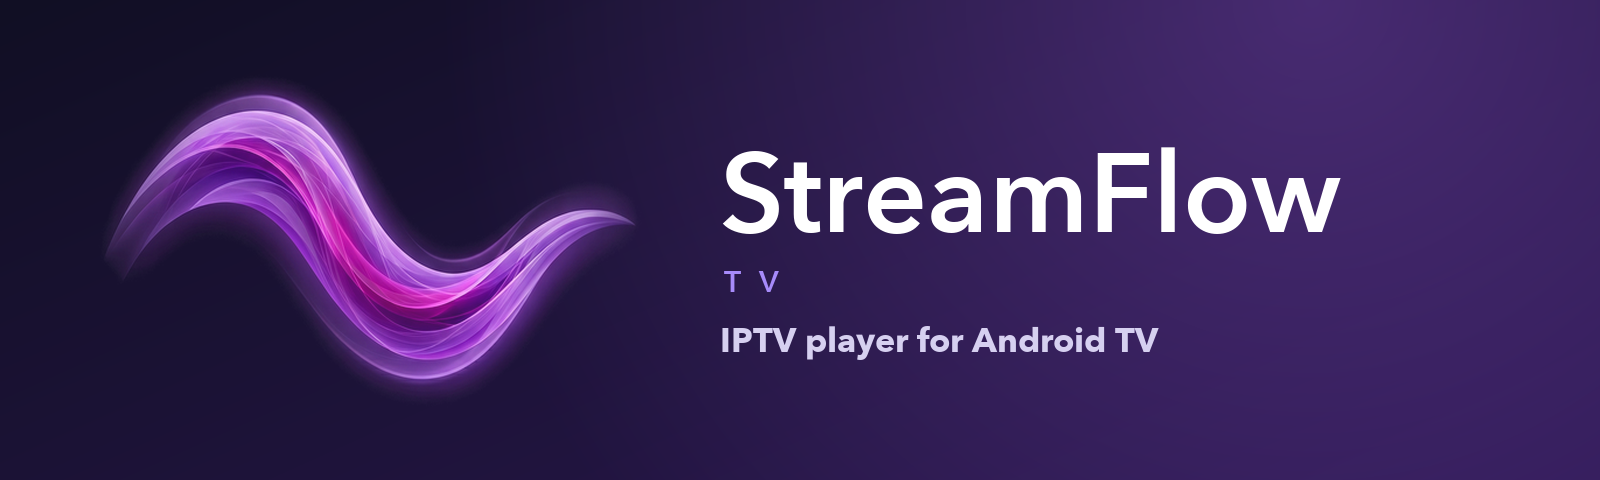
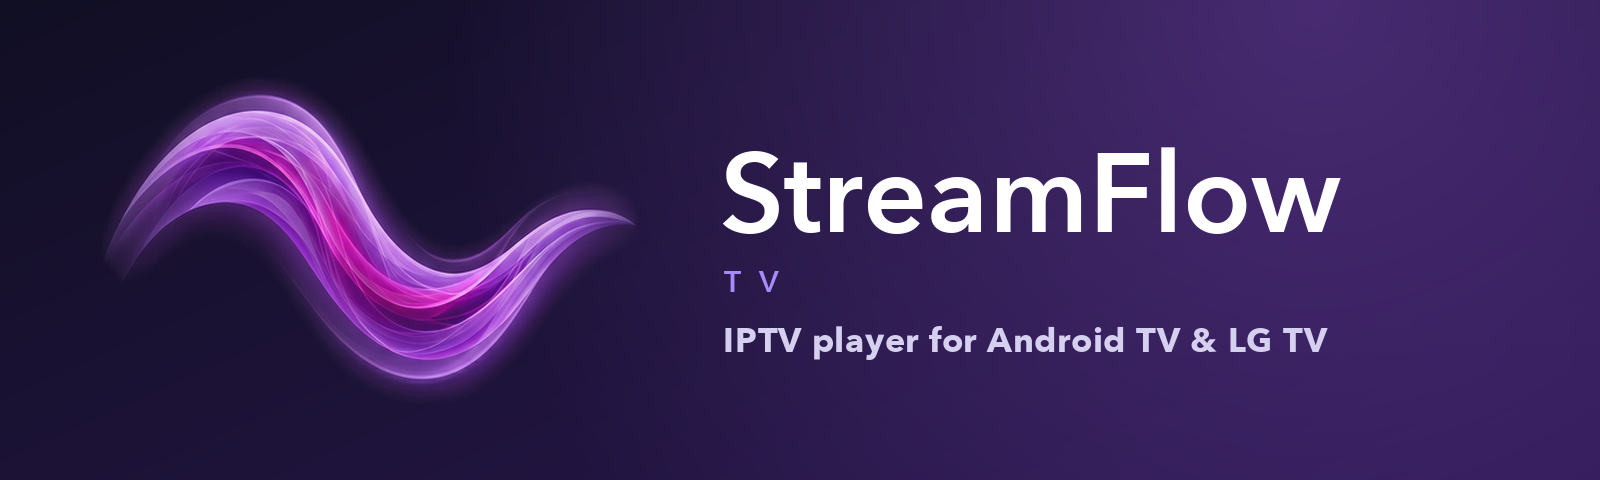
StreamFlow TV for LG TV: install guide and screenshots
- The LG TV (webOS) version: StreamFlow-LG.ipk on the release, beside the
  APK, and install steps through LG's Developer Mode.
- The header now reads "IPTV player for Android TV & LG TV", with a
  download badge for each.
- LG screenshots (the desktop build with a test playlist): setup, home,
  the player, Live Sports and a goal alert, which only the LG version has
  so far.
- Questions for LG: Developer Mode expiring, typing links with LG ThinQ.

Changed region(s): [[0.4375, 0.6875, 0.8438, 0.75]]

diff --git a/README.md b/README.md
@@ -1,20 +1,27 @@
 <p align="center">
-  <img src="images/header.png" alt="StreamFlow TV — IPTV player for Android TV" width="100%">
+  <img src="images/header.png" alt="StreamFlow TV — IPTV player for Android TV and LG TV" width="100%">
 </p>
 
 <p align="center">
-  <b>An IPTV player for Android TV, made for the remote.</b><br>
+  <b>An IPTV player for Android TV and LG TV, made for the remote.</b><br>
   Bring your own M3U playlist and XMLTV guide; StreamFlow does the rest.
 </p>
 
 <p align="center">
-  <a href="https://github.com/Getmygity/StreamFlow-TV/releases/latest/download/StreamFlow-TV.apk"><img alt="Download the APK" src="https://img.shields.io/badge/Download-StreamFlow--TV.apk-A78BFA?style=for-the-badge&logo=android&logoColor=white"></a>
+  <a href="https://github.com/Getmygity/StreamFlow-TV/releases/latest/download/StreamFlow-TV.apk"><img alt="Download the APK for Android TV" src="https://img.shields.io/badge/Android%20TV-StreamFlow--TV.apk-A78BFA?style=for-the-badge&logo=android&logoColor=white"></a>
+  <a href="https://github.com/Getmygity/StreamFlow-TV/releases/latest/download/StreamFlow-LG.ipk"><img alt="Download the IPK for LG TV" src="https://img.shields.io/badge/LG%20TV-StreamFlow--LG.ipk-A78BFA?style=for-the-badge&logo=lg&logoColor=white"></a>
+</p>
+
+<p align="center">
   <img alt="Android TV 5.0+" src="https://img.shields.io/badge/Android%20TV-5.0%2B-2B1850?style=for-the-badge&logo=android&logoColor=white">
+  <img alt="LG webOS 22+" src="https://img.shields.io/badge/LG%20webOS-22%2B-2B1850?style=for-the-badge&logo=lg&logoColor=white">
 </p>
 
 <p align="center">
   <img src="images/focused-card.jpg" alt="StreamFlow home screen" width="90%">
 </p>
+
+**Which one do I need?** An Android TV, Google TV or Android box takes **`StreamFlow-TV.apk`** ([install steps](#%EF%B8%8F-install-on-your-android-tv)). An LG smart TV from 2022 or later takes **`StreamFlow-LG.ipk`** ([install steps](#%EF%B8%8F-install-on-your-lg-tv)).
 
 ---
 
@@ -46,10 +53,47 @@ Choose **Install** when it finishes. If Play Protect warns about an unknown app,
 
 ---
 
+## ⬇ Install on your LG TV
+
+For LG smart TVs with **webOS 22 or newer** (2022 models and later). StreamFlow isn't in the LG Content Store, so it goes on through LG's free **Developer Mode**, from a computer on the same network. It takes about fifteen minutes the first time.
+
+**1. Make an LG developer account** at [webostv.developer.lge.com](https://webostv.developer.lge.com). It's free.
+
+**2. Turn on Developer Mode on the TV.** Install the **Developer Mode** app from the LG Content Store and sign in with that account. Turn on **Dev Mode Status**; the TV restarts. Open the app again and turn on **Key Server**. Keep it open: it shows the TV's **IP address** and a **passphrase**.
+
+**3. Connect your computer to the TV.** Install [Node.js](https://nodejs.org), then LG's tools, and pair with the TV:
+
+```bash
+npm install -g @webos-tools/cli
+ares-setup-device -a mytv -i "host=<tv-ip>" -i "port=9922" -i "username=prisoner"
+ares-novacom -d mytv --getkey
+ares-setup-device -m mytv -i "privatekey=mytv_webos" -i "passphrase=<passphrase>"
+```
+
+`--getkey` asks for the passphrase shown on the TV.
+
+**4. Install StreamFlow.** Download [`StreamFlow-LG.ipk`](https://github.com/Getmygity/StreamFlow-TV/releases/latest/download/StreamFlow-LG.ipk), then:
+
+```bash
+ares-install -d mytv StreamFlow-LG.ipk
+ares-launch -d mytv com.youngertv.streamflow.lgtv
+```
+
+**5. Type your links.** Enter your **playlist (M3U) link** and, optionally, your **guide (XMLTV) link**, with the remote or with the **LG ThinQ** app's keyboard on your phone. The TV loads your channels and you're in. From then on StreamFlow is in the TV's app list.
+
+> **Extend Developer Mode every few weeks.** A session lasts 1000 hours (about six weeks). Open the Developer Mode app and extend it before it runs out, or the TV removes StreamFlow along with your saved links.
+
+<p align="center">
+  <img src="images/lg-setup.jpg" alt="Typing the playlist link on an LG TV" width="70%"><br>
+  <sub>Setup on the LG TV: type your links with the remote or your phone.</sub>
+</p>
+
+---
+
 ## ✨ What it does
 
 - **Live TV in rows by group.** The focused channel expands to show what's on, its time slot and the description, then **starts a muted live preview** in the tile.
-- **Tile or list view.** Channel cards remember the last picture each channel showed.
+- **Tile or list view.** On Android TV, channel cards remember the last picture each channel showed.
 - **Movies & series:** series fold into seasons and episodes. **Seek** with LEFT/RIGHT (10 s → 30 s → 1 min → 5 min with quick presses) and **pause** with OK.
 - **Player overlay:** a channel browser, a forward schedule, a group picker, and CH+/CH− zapping.
 - **Hold OK** on a channel for Play, Information or Cancel.
@@ -62,7 +106,16 @@ Choose **Install** when it finishes. If Play Protect warns about an unknown app,
 | <img src="images/channel-menu.jpg" alt="Channel menu"><br>**Hold OK for the channel menu** | <img src="images/channel-info.jpg" alt="Programme information"><br>**Full programme information** |
 | <img src="images/player.jpg" alt="Player overlay"><br>**Player overlay** | <img src="images/vod-seek.jpg" alt="Seeking a movie"><br>**Seeking a movie** |
 
-<sub>Screenshots use a test playlist.</sub>
+### ⚽ New on LG TV: live sports
+
+The LG TV version also has **Live Sports**: today's NBA and European football games, each with the channels in your guide that show it, and **goal alerts** that pop up while you watch another channel (press OK to switch). The Android TV download doesn't have it yet.
+
+| | |
+|:---:|:---:|
+| <img src="images/lg-sports.jpg" alt="Live sports on LG TV"><br>**Live sports** — each game with its channels | <img src="images/lg-goal-alert.jpg" alt="Goal alert on LG TV"><br>**Goal alert** — OK switches to the game |
+| <img src="images/lg-home.jpg" alt="LG TV home screen"><br>**LG TV home** — with the muted preview | <img src="images/lg-player.jpg" alt="LG TV player"><br>**LG TV player** |
+
+<sub>Screenshots use a test playlist: the Android TV emulator, and the LG app's desktop build.</sub>
 
 ---
 
@@ -70,18 +123,22 @@ Choose **Install** when it finishes. If Play Protect warns about an unknown app,
 
 | On the home screen | While watching |
 |---|---|
-| **D-pad:** move between channels. LEFT from the first card opens the menu. | **UP / DOWN:** browse channels |
+| **Arrows:** move between channels. LEFT from the first card opens the menu. | **UP / DOWN:** browse channels |
 | **OK:** watch | **LEFT / RIGHT:** browse the schedule (live) or seek (movies) |
 | **Hold OK:** channel menu | **OK:** play the browsed channel, or pause a movie |
 | **Back:** go to the menu | **Back:** close the overlay, then return home |
+
+On an LG TV the **Magic Remote** works too: point at a channel to focus it and click to press.
 
 ---
 
 ## ❓ Questions
 
-- **Updating to a new version:** install the new APK the same way. It installs over the old one and keeps your settings.
-- **"App not installed":** uninstall any older StreamFlow build first, then install again.
-- **The QR page won't open on my phone:** make sure the phone and the TV are on the same Wi-Fi network.
+- **Updating to a new version:** install the new file the same way. It installs over the old one and keeps your settings.
+- **"App not installed" (Android TV):** uninstall any older StreamFlow build first, then install again.
+- **The QR page won't open on my phone (Android TV):** make sure the phone and the TV are on the same Wi-Fi network.
+- **StreamFlow disappeared from my LG TV:** the Developer Mode session ran out. Turn Developer Mode on again, install the IPK again, and extend the session every few weeks from then on.
+- **Typing a long link on the LG TV is slow:** use the LG ThinQ app on your phone as the TV's keyboard.
 
 <p align="center">
   <img src="images/tv-banner.png" alt="StreamFlow TV" width="320">
